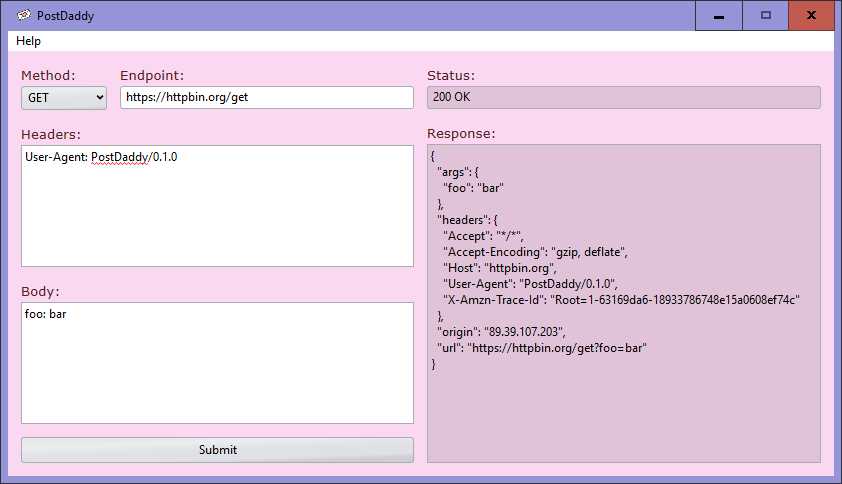
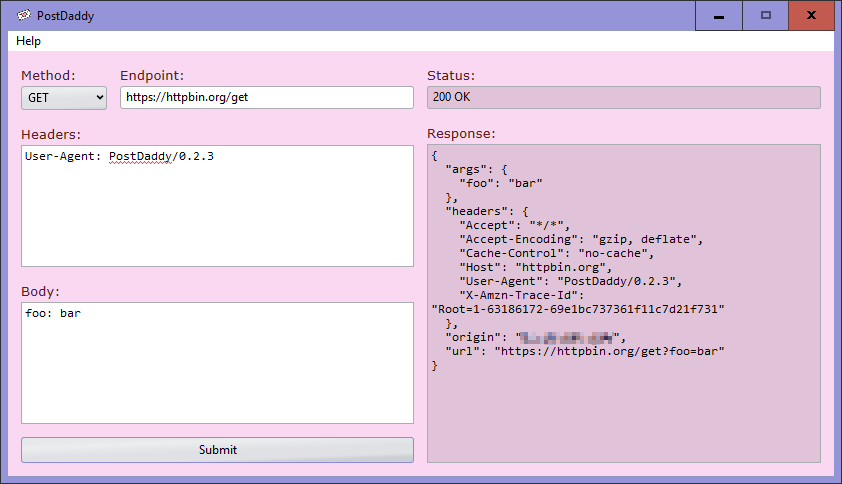
:bug: no-cache :zap: monospace font :bento: update screenshot

diff --git a/resources/main.htm b/resources/main.htm
@@ -27,7 +27,7 @@
           </label>
         </div>
         <label for="headers">Headers:
-          <textarea #headers wrap="off">User-Agent: PostDaddy/0.1.2</textarea>
+          <textarea #headers wrap="off">User-Agent: PostDaddy/0.2.3</textarea>
         </label>
         <label for="body">Body:
           <textarea #body>foo: bar</textarea>

diff --git a/resources/about.js b/resources/about.js
@@ -26,7 +26,7 @@ export class About extends Element {
           <div id="header">
             <img src='about.png' width="256" height="144" />
             <div id="title">
-              <div>v0.1.2</div>
+              <div>v0.2.3</div>
             </div>
           </div>
           <div id="contents">

diff --git a/resources/main.js b/resources/main.js
@@ -42,6 +42,8 @@ $('#submit').on('click', async () => {
       options.body = objectToQueryString(parseForm(body)).slice(1);
     }
 
+    options.cache = 'no-cache';
+
     const response = await fetch(url, options);
 
     const statusCode = response.status;

diff --git a/resources/main.css b/resources/main.css
@@ -95,6 +95,10 @@ label[for=response] {
   width: *;
 }
 
+#headers, #body, #response {
+  font-family: monospace;
+}
+
 #response {
   height: *;
 }
